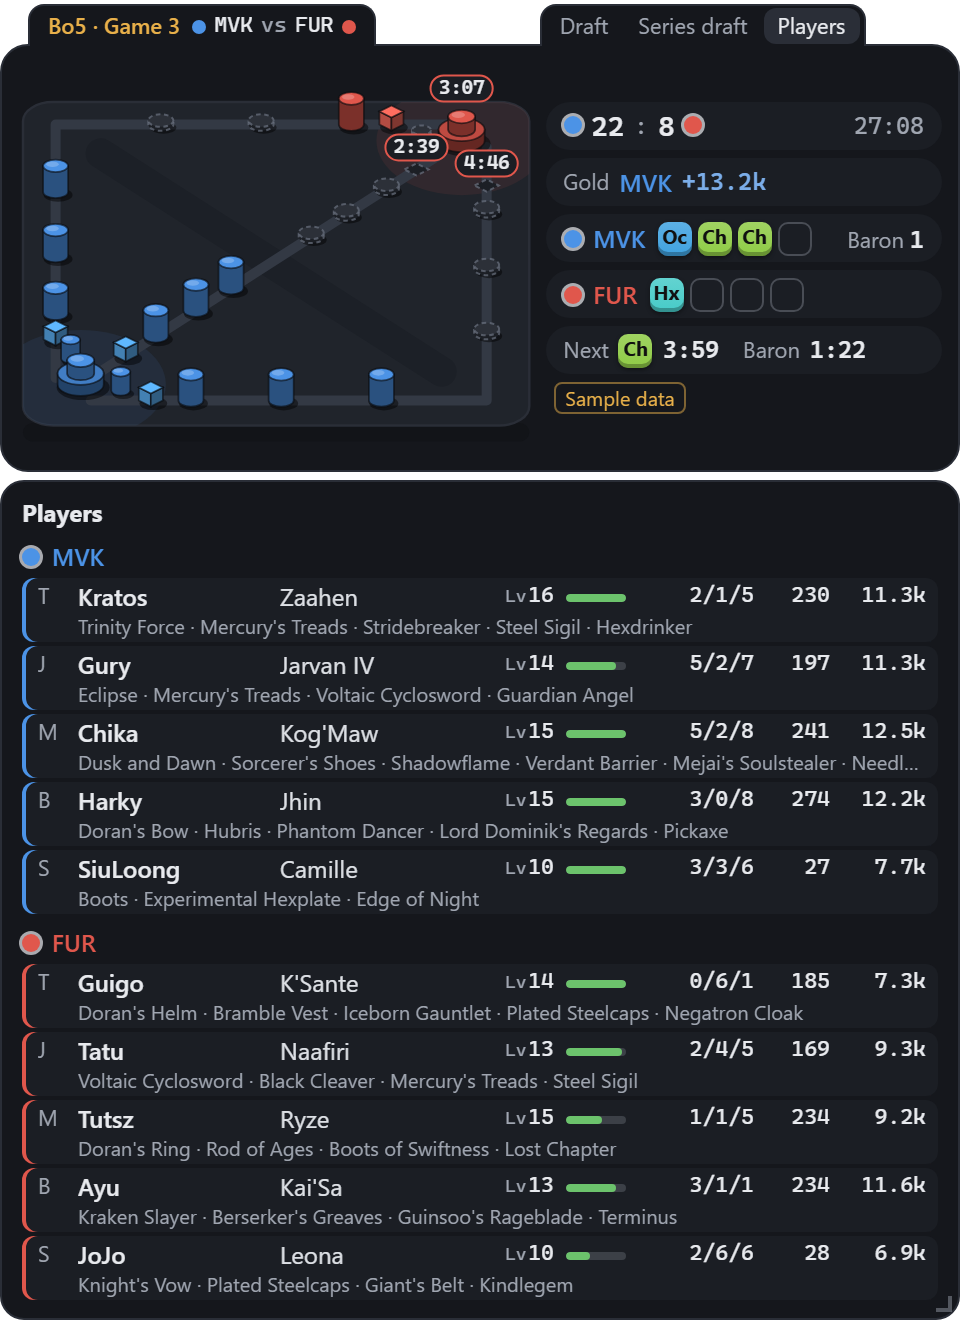
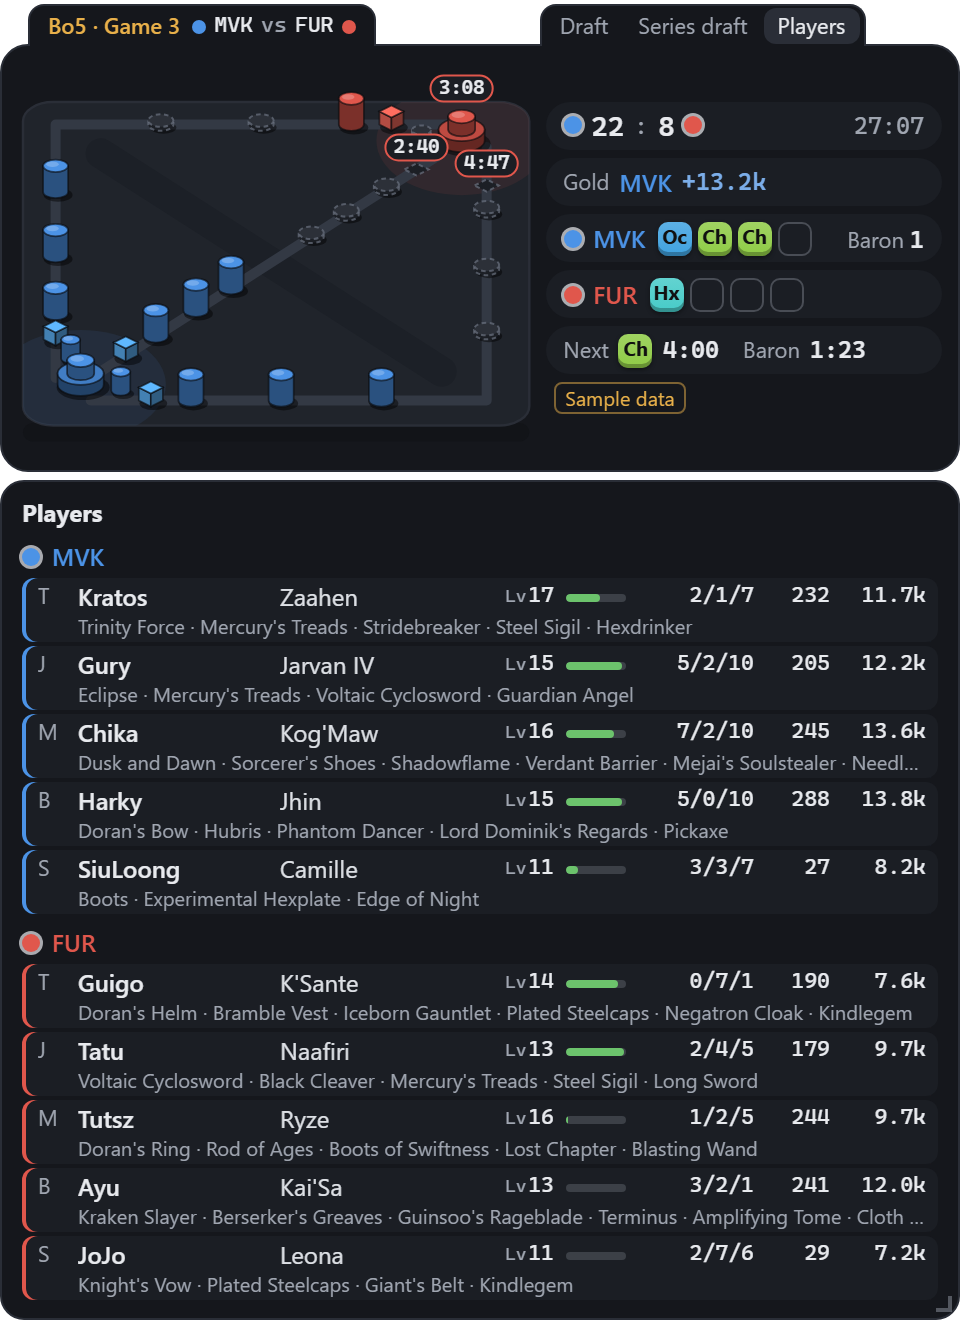
Read players from the service (contract v0.2)
Stream CV now sends players in the proposed shape, plus players.asOf.
Items may be null when the service could not read the details frame;
the view then says the items are missing instead of showing none. The
regenerated sample carries real players, so the raw/ feed shortcut and
its script are gone. Tests check that each team's players add up to
the team's kills and gold, and match the draft picks.

diff --git a/tests/render.test.ts b/tests/render.test.ts
@@ -1,6 +1,7 @@
 import { describe, expect, it } from 'vitest';
 import { adapt } from '../src/data/streamcv/adapter.ts';
 import { championName, knownChampion } from '../src/data/champions.ts';
+import { itemName } from '../src/data/items.ts';
 import { clockNow, fmtClock, MAX_TICK_SEC } from '../src/model/clock.ts';
 import { TEAMS, TOWER_SITES } from '../src/model/types.ts';
 import { detectLang, LANGS, STRINGS } from '../src/i18n/index.ts';
@@ -15,7 +16,7 @@ import mock from '../fixtures/dev/series_draft_mock.json' with { type: 'json' };
 
 const finished = adapt(sample);
 /** The same game as the service sent it before v0.1: no series, no draft. */
-const bare = { ...finished, series: null, draft: null };
+const bare = { ...finished, series: null, draft: null, players: null, playersAsOf: null };
 const live = { ...finished, status: 'in_game' as const };
 const withMock = { ...adapt({ ...sample, ...mock }), status: 'in_game' as const };
 const ctx = (over: Partial<ViewCtx> = {}): ViewCtx => ({
@@ -237,7 +238,31 @@ describe('players view', () => {
   it('reads five a team, top to support, without the team tag in front of the name', () => {
     expect(s.players!.B.map((x) => x.role)).toEqual(['top', 'jungle', 'mid', 'bot', 'support']);
     expect(s.players!.B[0]).toMatchObject({ name: 'One', champion: 'Zaahen', kills: 2, gold: 11252, items: [3078, 3363, 3111, 6631, 2055] });
-    expect(adapt(sample).players).toBeNull();
+    const { players: _, ...v01 } = sample as Record<string, unknown>;
+    expect(adapt(v01).players).toBeNull();
+  });
+
+  it('real sample (contract v0.2): each team of five adds up to the team totals', () => {
+    const real = adapt(sample);
+    expect(real.playersAsOf).toBe('2026-10-16T01:28:32.295Z');
+    for (const t of TEAMS) {
+      const ps = real.players![t];
+      expect(ps.map((x) => x.role)).toEqual(['top', 'jungle', 'mid', 'bot', 'support']);
+      expect(ps.reduce((a, x) => a + x.kills!, 0)).toBe(real.teams[t].kills);
+      expect(ps.reduce((a, x) => a + x.gold!, 0)).toBe(real.teams[t].gold);
+      expect(ps.map((x) => x.champion)).toEqual(real.draft!.current!.sides[t].picks);
+    }
+    expect(real.players!.B.map((x) => x.name)).toEqual(['Kratos', 'Gury', 'Chika', 'Harky', 'SiuLoong']);
+    // Every item id the service sent has a name.
+    const ids = TEAMS.flatMap((t) => real.players![t].flatMap((x) => x.items ?? []));
+    expect(ids.length).toBeGreaterThan(40);
+    expect(ids.filter((i) => itemName(i, 'en').startsWith('#'))).toEqual([]);
+  });
+
+  it('items the service could not read are said to be missing, not drawn as "no items"', () => {
+    const s2 = adapt({ ...sample, players: { B: [{ role: 'top', name: 'MVK A', champion: 'Zaahen', items: null }], R: [] } });
+    expect(s2.players!.B[0]!.items).toBeNull();
+    expect(playersView(ctx({ s: s2 }))).toContain(STRINGS['zh-Hant'].ui.itemsUnknown);
   });
 
   it('shows position, name, champion, level, KDA, CS and gold; items by name without wards or potions', () => {
@@ -261,6 +286,7 @@ describe('players view', () => {
   });
 
   it('says plainly when the service sends no players', () => {
-    expect(playersView(ctx())).toContain(STRINGS['zh-Hant'].ui.noPlayers);
+    expect(playersView(ctx({ s: bare }))).toContain(STRINGS['zh-Hant'].ui.noPlayers);
+    expect(playersView(ctx())).not.toContain(STRINGS['zh-Hant'].ui.noPlayers);
   });
 });

diff --git a/src/i18n/index.ts b/src/i18n/index.ts
@@ -32,7 +32,7 @@ export interface Strings {
     | 'soul' | 'inhibitor' | 'nexusTurret' | 'kills' | 'gold' | 'towersUnnamed' | 'towersUnknown'
     | 'settings' | 'done' | 'quit' | 'quitAgain' | 'noGame' | 'waiting'
     | 'next' | 'elder' | 'noSeries' | 'bans' | 'picks' | 'fearless' | 'noDraft' | 'noEarlier' | 'turn'
-    | 'vs' | 'winsUnknown' | 'bansUnsupported' | 'picksAtStart' | 'noPlayers' | 'level' | 'cs' | 'kda' | 'hp',
+    | 'vs' | 'winsUnknown' | 'bansUnsupported' | 'picksAtStart' | 'noPlayers' | 'level' | 'cs' | 'kda' | 'hp' | 'itemsUnknown',
     string
   >;
   set: Record<
@@ -81,7 +81,7 @@ const zh: Strings = {
     fearless: '無懼選角：前面局選過的英雄，雙方都不能再選', noDraft: '還沒有 BP 資料（服務合約 v0 沒有這項）',
     noEarlier: '這是第一局，還沒有鎖住的英雄', turn: '輪到',
     vs: 'vs', winsUnknown: '不知道本局開始前的勝場', bansUnsupported: '尚未支援（服務還讀不到禁用）', picksAtStart: '開局後才會有',
-    noPlayers: '還沒有選手資料（服務還沒有這項）', level: 'Lv', cs: '補刀', kda: '擊殺／死亡／助攻', hp: '血量',
+    noPlayers: '沒有選手資料（開局後才有）', itemsUnknown: '裝備資料暫缺', level: 'Lv', cs: '補刀', kda: '擊殺／死亡／助攻', hp: '血量',
   },
   set: {
     title: '設定', language: '語言', auto: '跟隨系統', background: '背景', solid: '不透明', semi: '半透明', clear: '透明',
@@ -128,7 +128,7 @@ const en: Strings = {
     fearless: 'Fearless draft: champions picked earlier in the series are locked for both teams', noDraft: 'No draft data yet (not in service contract v0)',
     noEarlier: 'Game 1: nothing locked yet', turn: 'Now',
     vs: 'vs', winsUnknown: 'Series score before this game is unknown', bansUnsupported: 'Not supported yet (the service cannot read bans)', picksAtStart: 'Shown once the game starts',
-    noPlayers: 'No player data yet (the service does not send it yet)', level: 'Lv', cs: 'CS', kda: 'Kills / deaths / assists', hp: 'Health',
+    noPlayers: 'No player data (it comes once the game starts)', itemsUnknown: 'Items not available right now', level: 'Lv', cs: 'CS', kda: 'Kills / deaths / assists', hp: 'Health',
   },
   set: {
     title: 'Settings', language: 'Language', auto: 'System', background: 'Background', solid: 'Solid', semi: 'Translucent', clear: 'Clear',

diff --git a/src/data/streamcv/adapter.ts b/src/data/streamcv/adapter.ts
@@ -35,7 +35,7 @@ function emptyTeam(): TeamState {
 export function emptyState(status: GameStatus = 'idle'): MatchState {
   return {
     status, gameId: null, updated: null, clock: null, teams: { B: emptyTeam(), R: emptyTeam() }, towersKnown: false,
-    riftElement: null, soul: null, nextDragon: null, nextBaron: null, buffs: [], series: null, draft: null, players: null,
+    riftElement: null, soul: null, nextDragon: null, nextBaron: null, buffs: [], series: null, draft: null, players: null, playersAsOf: null,
   };
 }
 
@@ -181,7 +181,7 @@ function readSeriesAndDraft(raw: Record<string, unknown>, s: MatchState): void {
   if (!s.draft.turnSupported && current) current.turn = null;
 }
 
-// ---------- players: proposed field (docs/CONTRACT_PROPOSAL.md, "選手"), not in v0.1 ----------
+// ---------- players: contract v0.2 ("選手"), after docs/CONTRACT_PROPOSAL.md ----------
 
 const ROLE_OF: Record<string, Role> = { top: 'top', jungle: 'jungle', mid: 'mid', bottom: 'bot', bot: 'bot', support: 'support' };
 
@@ -190,8 +190,10 @@ function player(v: unknown, code: string | null): Player | null {
   if (typeof o.name !== 'string' || !o.name.trim() || o.name.length > 40) return null;
   // The feed writes "MVK Kratos": the team code is already on screen.
   const name = code && o.name.startsWith(`${code} `) ? o.name.slice(code.length + 1) : o.name.trim();
-  const items = arr(o.items).map((i) => (typeof i === 'number' ? i : typeof i === 'string' ? Number(i) : NaN))
-    .filter((i) => Number.isInteger(i) && i > 0 && i < 100000).slice(0, 8);
+  // null: the service could not read the details frame. Not the same as "no items".
+  const items = o.items === null || o.items === undefined ? null
+    : arr(o.items).map((i) => (typeof i === 'number' ? i : typeof i === 'string' ? Number(i) : NaN))
+      .filter((i) => Number.isInteger(i) && i > 0 && i < 100000).slice(0, 8);
   return {
     role: typeof o.role === 'string' ? ROLE_OF[o.role] ?? null : null,
     name, champion: champion(o.champion),
@@ -211,4 +213,5 @@ function readPlayers(raw: Record<string, unknown>, s: MatchState): void {
     out[t] = list.sort((a, b) => (a.role ? ROLES.indexOf(a.role) : 9) - (b.role ? ROLES.indexOf(b.role) : 9)).slice(0, 5);
   }
   s.players = out;
+  s.playersAsOf = typeof ps.asOf === 'string' && ps.asOf.length <= 40 ? ps.asOf : null;
 }

diff --git a/src/ui/views.ts b/src/ui/views.ts
@@ -293,7 +293,7 @@ function playerRow(c: ViewCtx, p: Player, t: Team, withItems: boolean): string {
   const kda = `${n(p.kills)}/${n(p.deaths)}/${n(p.assists)}`;
   const hp = p.hp !== null && p.maxHp ? Math.max(0, Math.min(100, Math.round((p.hp / p.maxHp) * 100))) : null;
   const champName = p.champion ? championName(p.champion, c.lang) : '–';
-  const items = p.items.filter((i) => !minorItem(i)).map((i) => itemName(i, c.lang));
+  const items = p.items?.filter((i) => !minorItem(i)).map((i) => itemName(i, c.lang)) ?? null;
   const line1 = `<span class="role k">${p.role ? esc(c.S.role[p.role]) : ''}</span>`
     + `<b class="pn" title="${esc(p.name)}">${esc(p.name)}</b>`
     + `<span class="pc" title="${esc(champName)}">${esc(champName)}</span>`
@@ -302,7 +302,8 @@ function playerRow(c: ViewCtx, p: Player, t: Team, withItems: boolean): string {
     + `<span class="kda mono" title="${esc(c.S.ui.kda)}">${kda}</span>`
     + `<span class="cs mono" title="${esc(c.S.ui.cs)}">${n(p.cs)}</span>`
     + `<span class="pg mono">${p.gold === null ? '–' : fmtGold(p.gold)}</span>`;
-  const line2 = withItems ? `<div class="items" title="${esc(items.join(' · '))}">${items.length ? esc(items.join(' · ')) : '&nbsp;'}</div>` : '';
+  const text = items === null ? c.S.ui.itemsUnknown : items.join(' · ');
+  const line2 = withItems ? `<div class="items${items === null ? ' unknown' : ''}" title="${esc(text)}">${text ? esc(text) : '&nbsp;'}</div>` : '';
   return `<div class="prow" style="--t:${TEAM_COLOUR[t]}"><div class="p1">${line1}</div>${line2}</div>`;
 }
 

diff --git a/src/model/types.ts b/src/model/types.ts
@@ -113,7 +113,7 @@ export interface DraftState {
   turnSupported: boolean;
 }
 
-/** One player right now (proposed `players` field, docs/CONTRACT_PROPOSAL.md). */
+/** One player right now (service contract v0.2, "選手"). */
 export interface Player {
   role: Role | null;
   /** Without the team tag the feed puts in front ("MVK Kratos" -> "Kratos"). */
@@ -127,8 +127,8 @@ export interface Player {
   gold: number | null;
   hp: number | null;
   maxHp: number | null;
-  /** Data Dragon item ids, as the feed lists them (trinket and potions included). */
-  items: number[];
+  /** Data Dragon item ids, as the feed lists them (trinket and potions included); null when the service had none. */
+  items: number[] | null;
 }
 
 export interface MatchState {
@@ -149,6 +149,8 @@ export interface MatchState {
   series: SeriesInfo | null;
   /** This game's draft, and the earlier games of the series (fearless draft: their picks are locked). */
   draft: DraftState | null;
-  /** Five per team, top to support; null when the service sends none. */
+  /** Five per team, top to support; null when the service sends none (it does not while waiting). */
   players: Record<Team, Player[]> | null;
+  /** The feed moment the players were read at (0–10 s behind the newest feed frame). */
+  playersAsOf: string | null;
 }

diff --git a/src/ui/main.ts b/src/ui/main.ts
@@ -128,13 +128,8 @@ async function loadSample(): Promise<void> {
   // Dev builds only: the sample is not bundled into a release.
   if (!import.meta.env.DEV) return;
   const game = await import('../../fixtures/streamcv/state_finished_game.json');
-  // Players are not in the service yet: scripts/feed-players.mjs can put real feed numbers in raw/
-  // (git-ignored) to lay that view out. Missing is fine.
-  const extra = import.meta.glob<{ default: object }>('../../raw/players_*.json');
-  const players = Object.values(extra)[0];
-  const more = players ? (await players()).default : {};
   if (haveLive && !flags.sample) return;
-  let s = adapt({ ...game.default, ...more });
+  let s = adapt(game.default);
   if (flags.demo) s = { ...s, status: 'in_game' };
   state = s;
   receivedAt = Date.now();

diff --git a/src/ui/app.css b/src/ui/app.css
@@ -152,6 +152,7 @@ body:hover #tabs .controls { opacity: 1; pointer-events: auto; }
 .p1 .lv .k { font-size: 9px; margin-right: 1px; }
 .hp { height: 4px; border-radius: 2px; background: color-mix(in srgb, var(--muted) 25%, transparent); overflow: hidden; }
 .hp i { display: block; height: 100%; background: #6CC36C; border-radius: 2px; }
+.items.unknown { font-style: italic; }
 .items { font-size: 10px; color: var(--muted); white-space: nowrap; overflow: hidden; text-overflow: ellipsis; padding-left: 20px; height: 13px; line-height: 13px; }
 
 #grip { position: fixed; right: 0; bottom: 0; width: 14px; height: 14px; cursor: nwse-resize; z-index: 10; }

diff --git a/docs/UI_SKELETON.md b/docs/UI_SKELETON.md
@@ -17,7 +17,7 @@ npm run typecheck
 
 | 參數 | 作用 |
 | --- | --- |
-| `sample` | 不問服務，直接畫樣本（只有開發版有樣本）。樣本是 Stream CV 合約 v0.1 的真實輸出，含系列賽與 BP（MVK vs FUR 第 3 局） |
+| `sample` | 不問服務，直接畫樣本（只有開發版有樣本）。樣本是 Stream CV 合約 v0.2 的真實輸出，含系列賽、BP 與選手（MVK vs FUR 第 3 局） |
 | `demo` | 搭配 `sample`：把已結束的樣本當成進行中，倒數會走 |
 | `settings` | 開啟設定頁 |
 | `set=path:value,...` | 例：`set=language:en,show.gold:false,background:semi` |
@@ -54,7 +54,7 @@ npm run typecheck
 ## 選手
 
 位置、選手、英雄、等級、血量、K/D/A、補刀、金錢，加一行裝備名稱（可關；飾品、藥水不列）。BP 視圖不標位置，位置只在這裡（維護者 2026-10-16）。
-服務還沒有這項，欄位見 `docs/CONTRACT_PROPOSAL.md` 的「選手」。開發時可用 `scripts/feed-players.mjs` 把真實 feed 的某一刻存到 `raw/`（不進 git）來排版；截圖裡的選手數據就是這樣來的（feed 01:27:09，比樣本的終局早，擊殺加總 18:8，不是 22:8）。
+由 Stream CV 服務提供（合約 v0.2「選手」）；`waiting` 時沒有，畫面寫「沒有選手資料」。details 取不到時裝備寫「裝備資料暫缺」。樣本的選手數據與隊伍總數對得上（測試：擊殺 22／8、金錢 59,398／46,224）。
 
 ## 從資料推論的地方（要知道的）
 

diff --git a/docs/CONTRACT_PROPOSAL.md b/docs/CONTRACT_PROPOSAL.md
@@ -53,6 +53,8 @@
 
 # 選手（提案，2026-10-16；維護者裁定由服務提供）
 
+**已實作（StreamCV e74ea27，合約 v0.2「選手」），欄位名稱照本提案。** 另外加了 `players.asOf`（數據對應的 feed 幀時間）；`items` 在 details 取不到時為 `null`（畫面寫「裝備資料暫缺」）；`waiting` 時沒有 `players`。服務量過：8 局 participantId 皆藍 1–5、紅 6–10；window 與 details 每秒約 5 幀、時間戳一致。下面是原始提案。
+
 桌面工具的「選手」視圖（位置、選手、英雄、等級、血量、K/D/A、補刀、金錢、裝備名稱）要的欄位。
 **合約 v0.1 沒有這一項**，畫面目前寫「還沒有選手資料」。桌面工具已經能讀下面的形狀（`readPlayers`），缺少或格式不對的值逐項丟掉。
 
@@ -81,4 +83,3 @@
 - 對照用參與者編號：`participantId` 1–5 是藍方、6–10 是紅方（這場的 `gameMetadata` 是這樣，未在其他局驗證）。
 - 延遲、`details` 的更新間隔都**未量測**。
 
-開發用：`node scripts/feed-players.mjs <gameId> [分鐘]` 會把 feed 的某一刻轉成上面的形狀，存到 `raw/`（不進 git），開發模式的樣本會自動帶上，用來排版。
